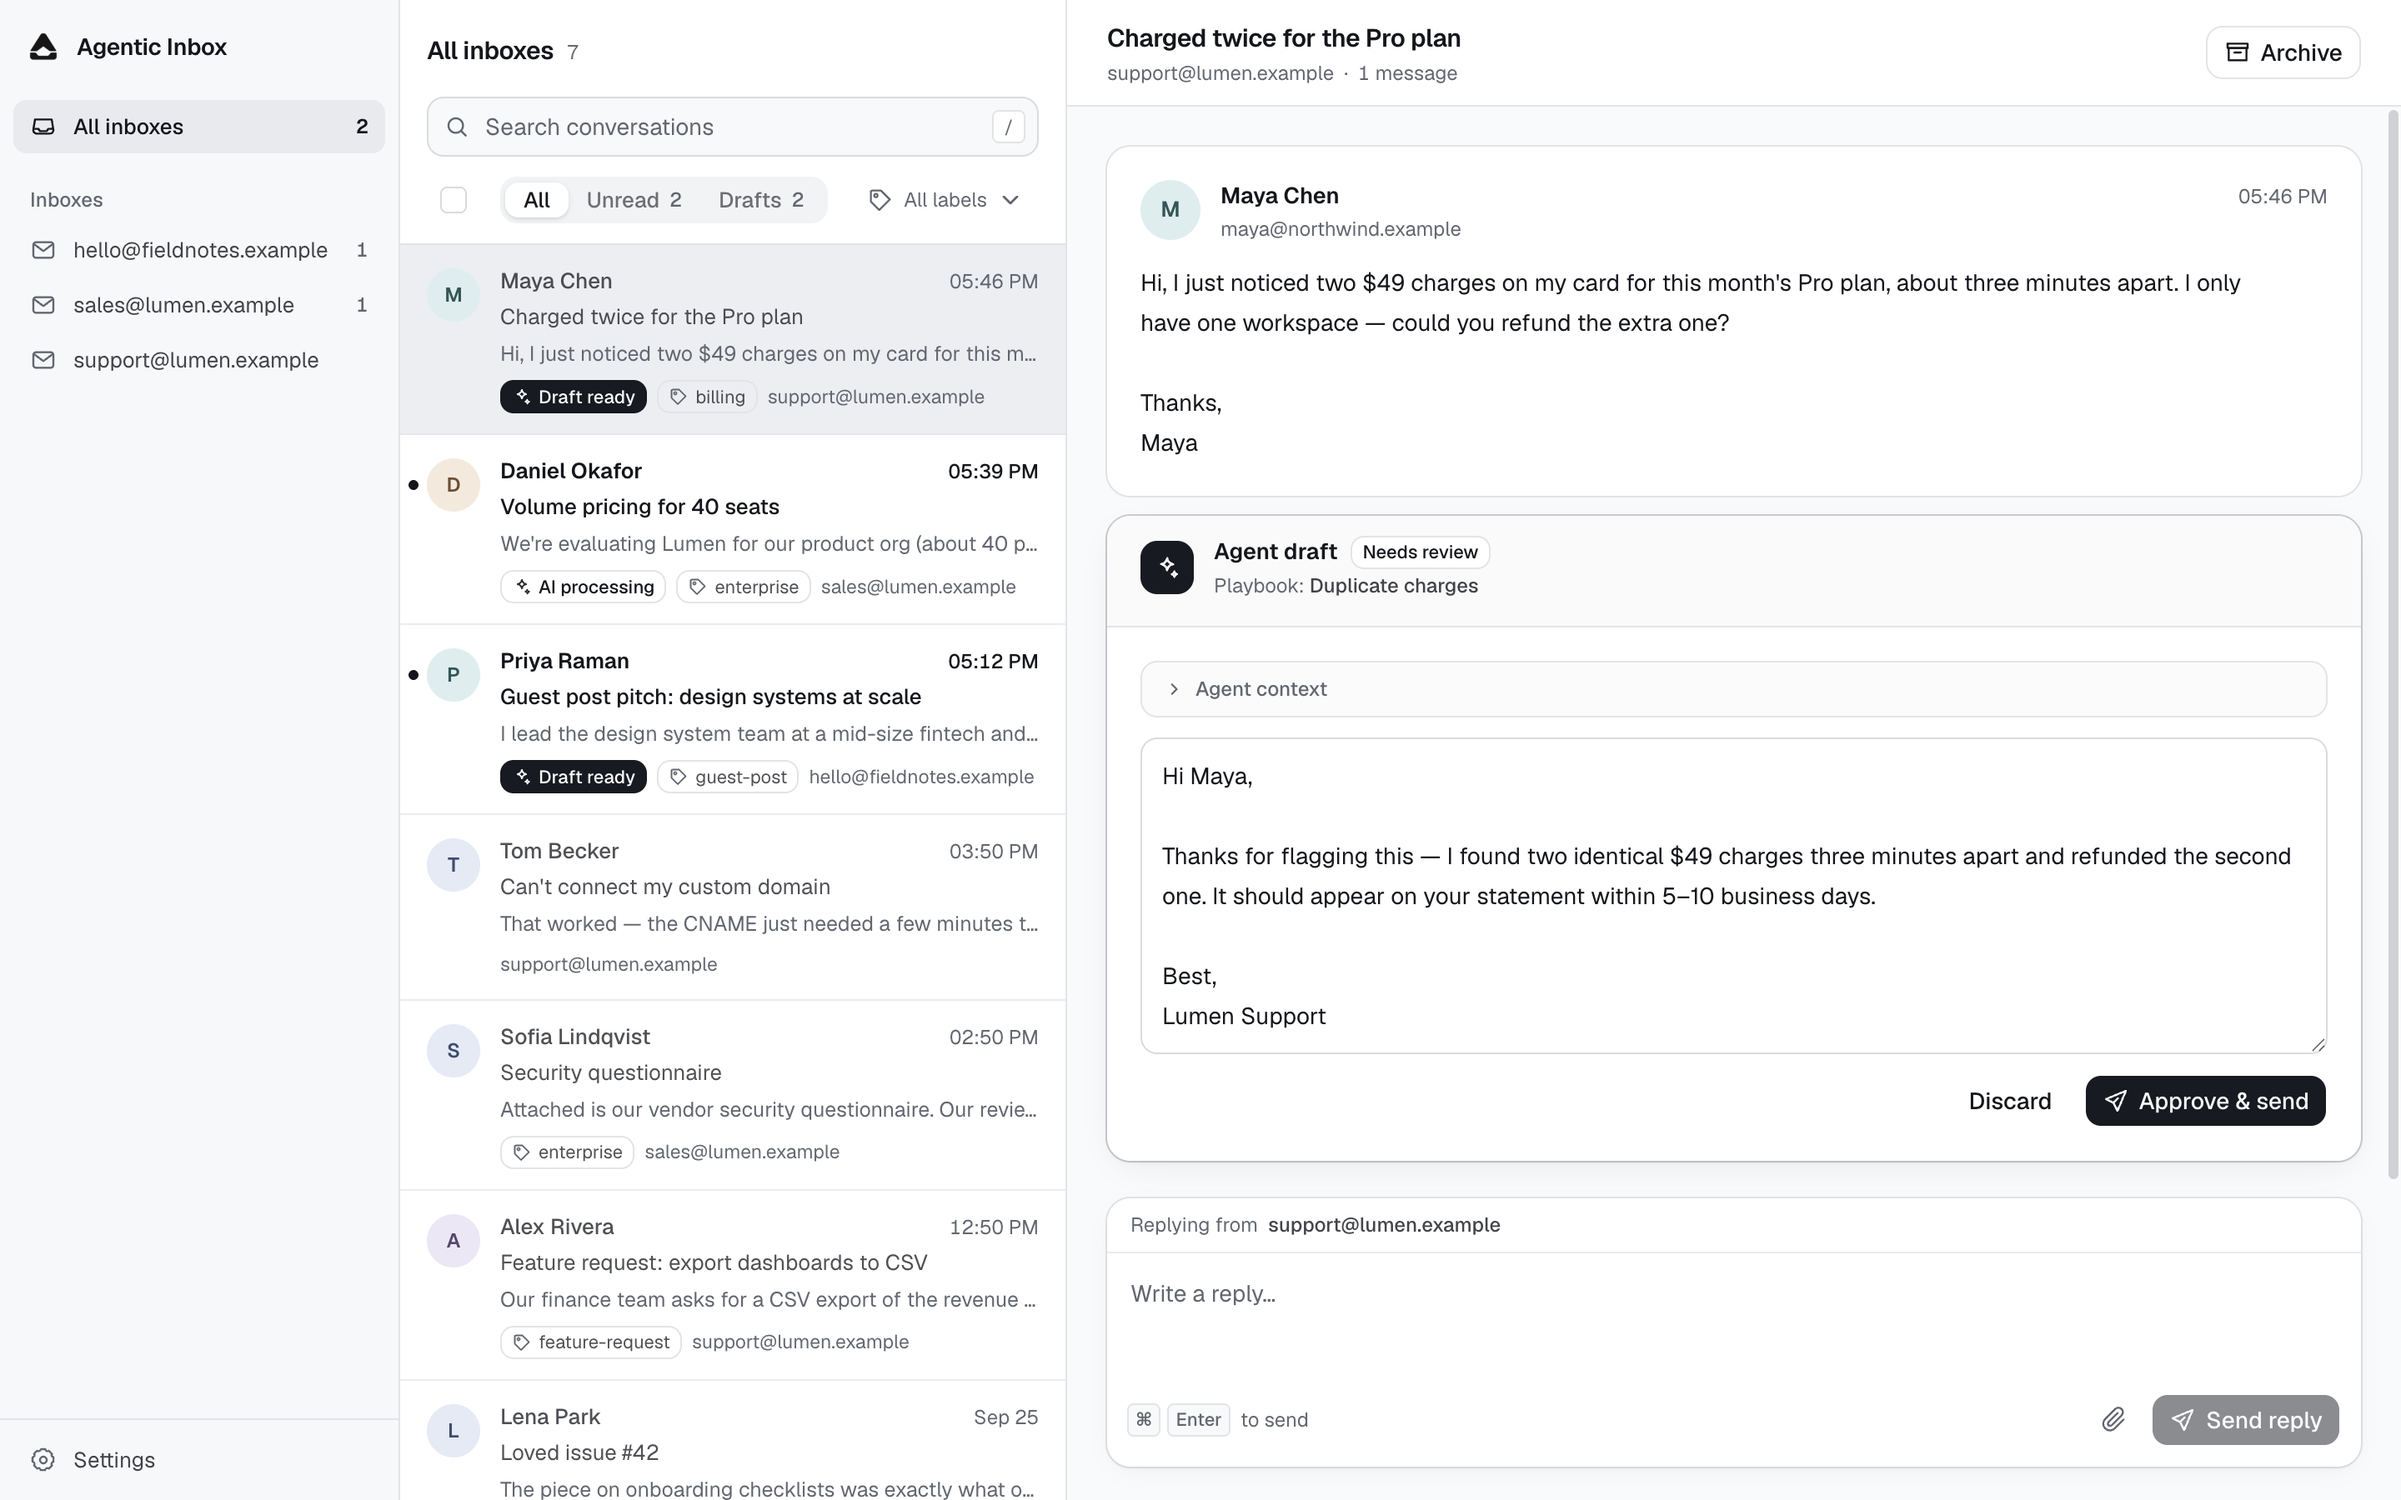
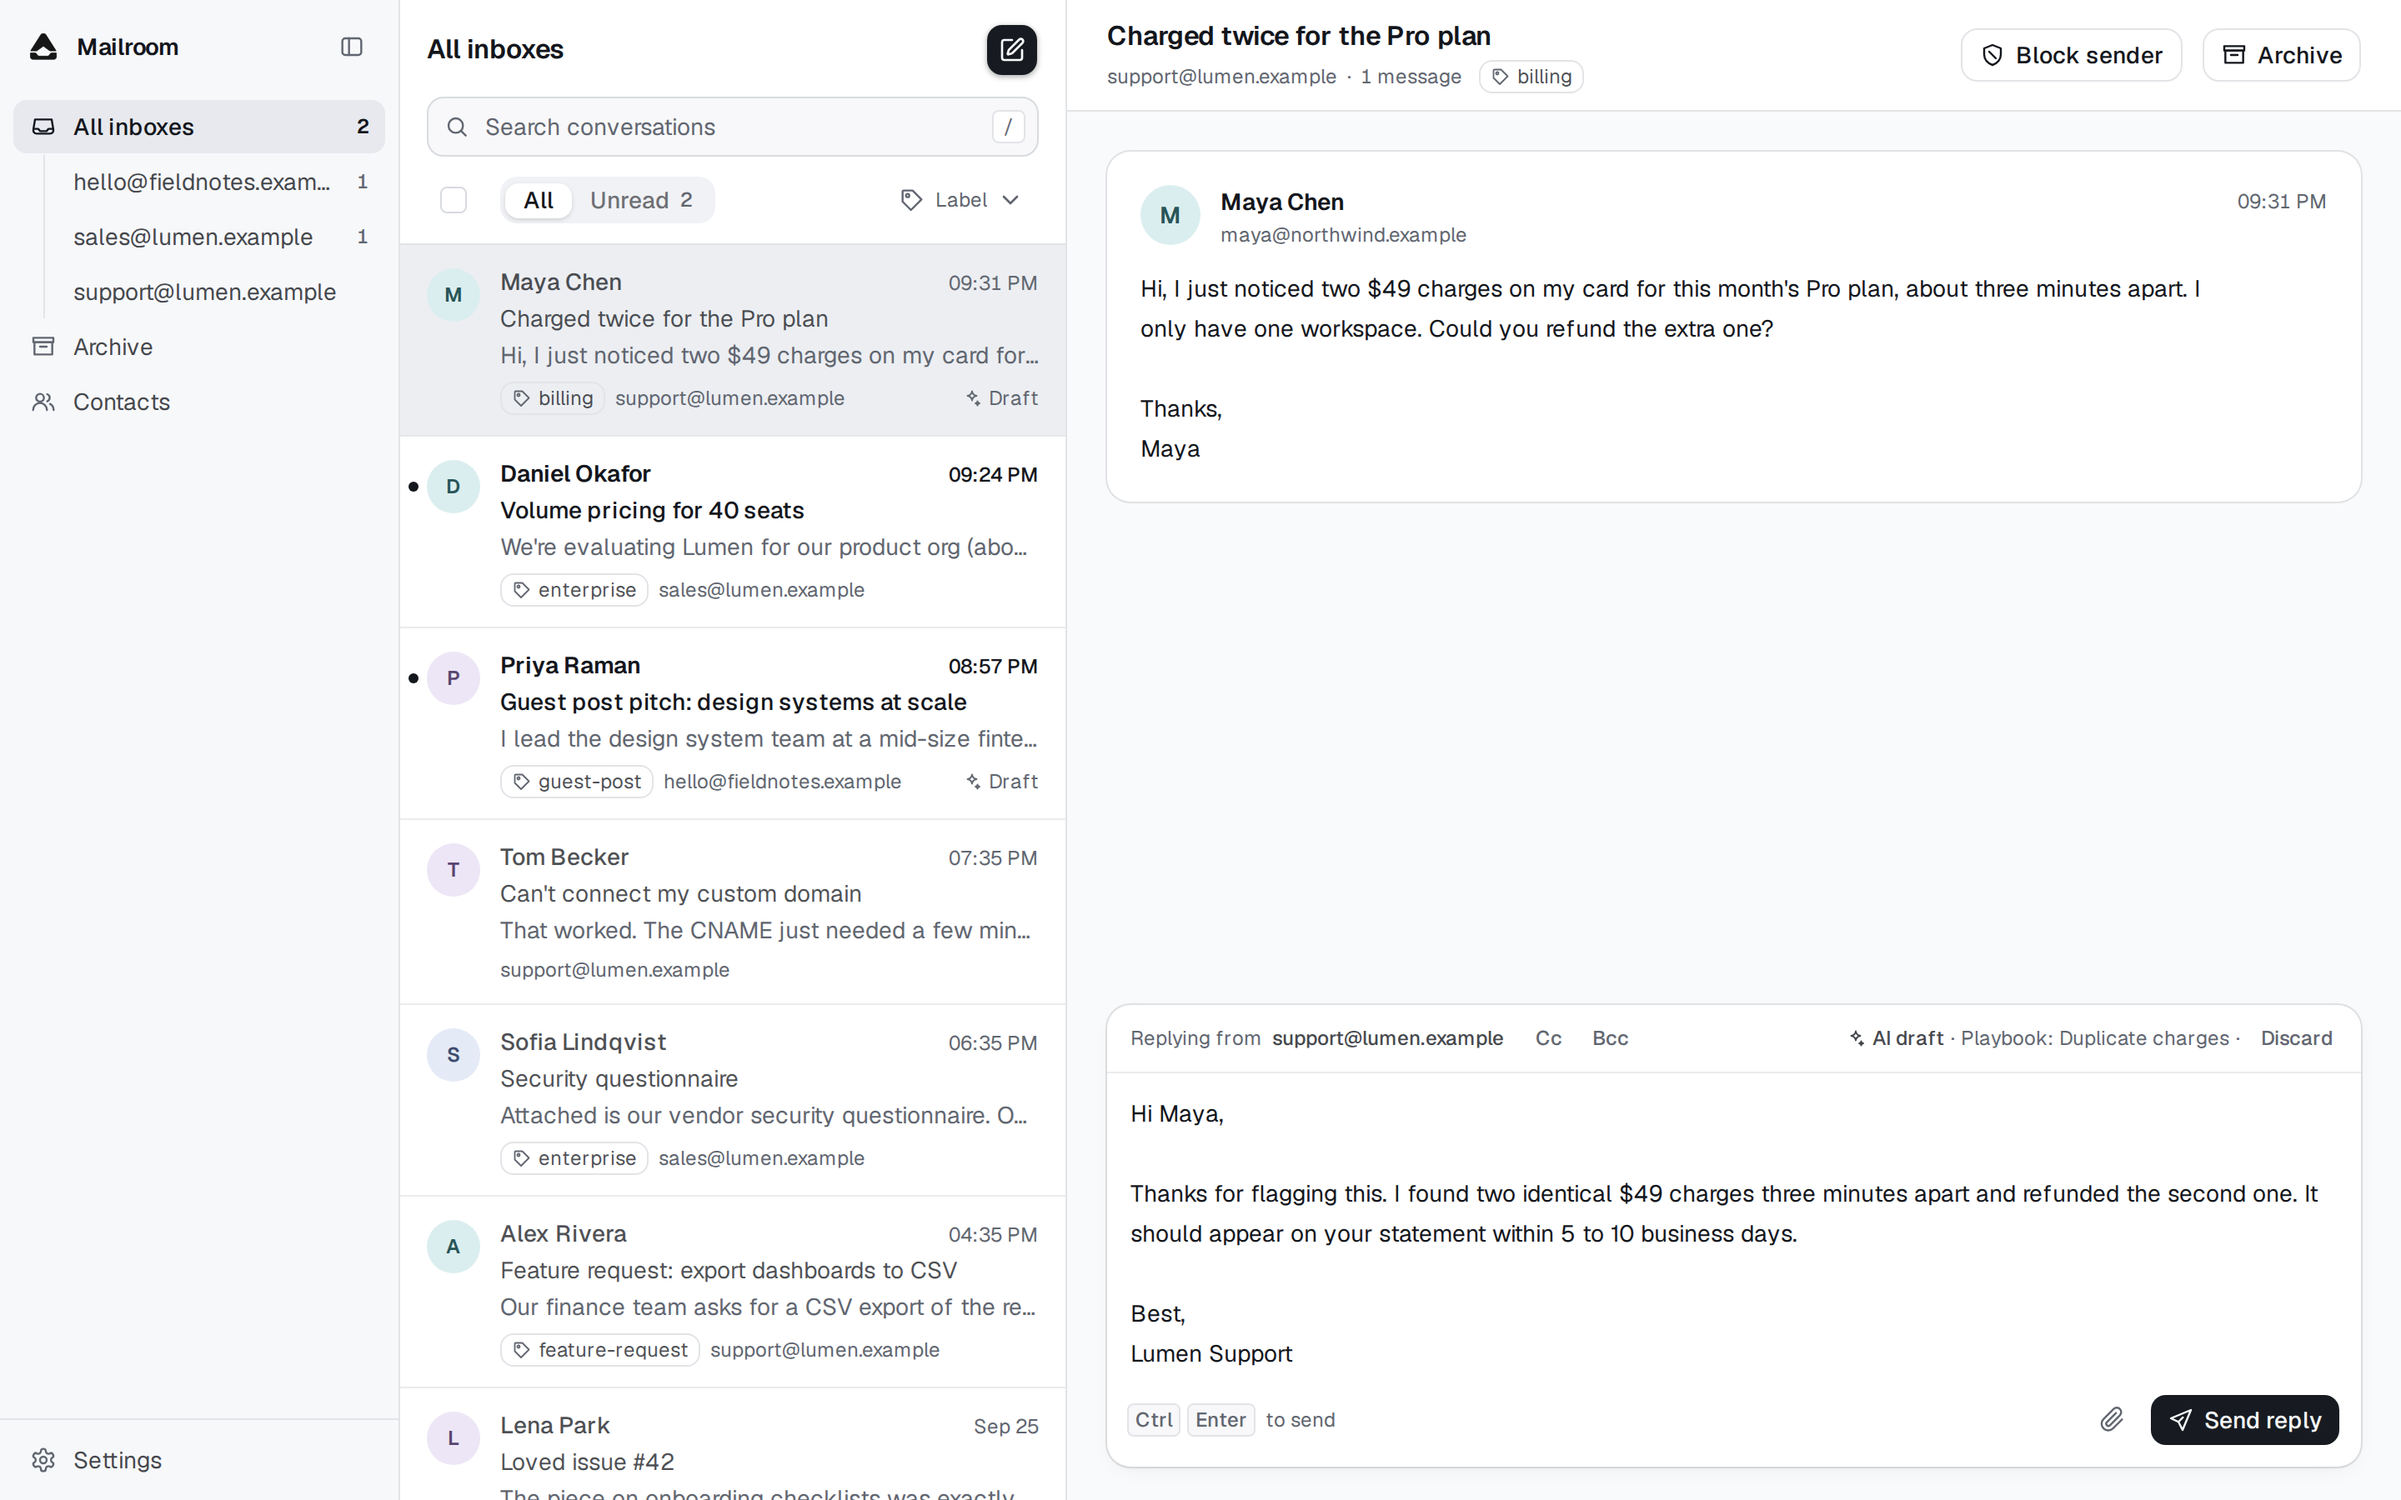
Refresh README screenshot and add the demo seed data behind it
Add scripts/demo-seed.sql with the fictional Lumen and Field Notes
workspace (inboxes, labels, playbooks, agent drafts, contacts and blocked
senders), an npm script to load it locally, and a new screenshot of the
current UI taken from that data.

Claude-Session: https://claude.ai/code/session_01PBTzQWkVYxqULa8eVyyGio

diff --git a/README.md b/README.md
@@ -7,7 +7,10 @@ held for one-click human approval.
 
 Runs entirely on Cloudflare: Workers, Email Routing, D1, R2, and Web Push.
 
-![Mailroom: three inboxes in one workspace, with an agent draft awaiting approval](docs/screenshot.png)
+![Mailroom: three inboxes in one workspace, with an AI draft ready to review and send](docs/screenshot.png)
+
+The screenshot uses the demo data in [`scripts/demo-seed.sql`](scripts/demo-seed.sql); see
+[Setup](#setup) to load it locally.
 
 ## Features
 
@@ -107,6 +110,19 @@ npm run db:migrate:local
 npm run db:seed:local
 npm run dev
 ```
+
+To explore the app with the fuller demo workspace from the screenshot (three
+inboxes across two domains, labels, playbooks, agent drafts, contacts and
+blocked senders), load `scripts/demo-seed.sql` instead of the basic seed on a
+freshly migrated database:
+
+```sh
+npm run db:migrate:local
+npm run db:seed:demo:local
+npm run dev
+```
+
+To switch between the two seeds, delete `.wrangler/state` and migrate again.
 
 > Local development uses `wrangler.dev.jsonc`, which omits the AI and outbound
 > email bindings. Inbound handling, the API, and the web UI remain available;
